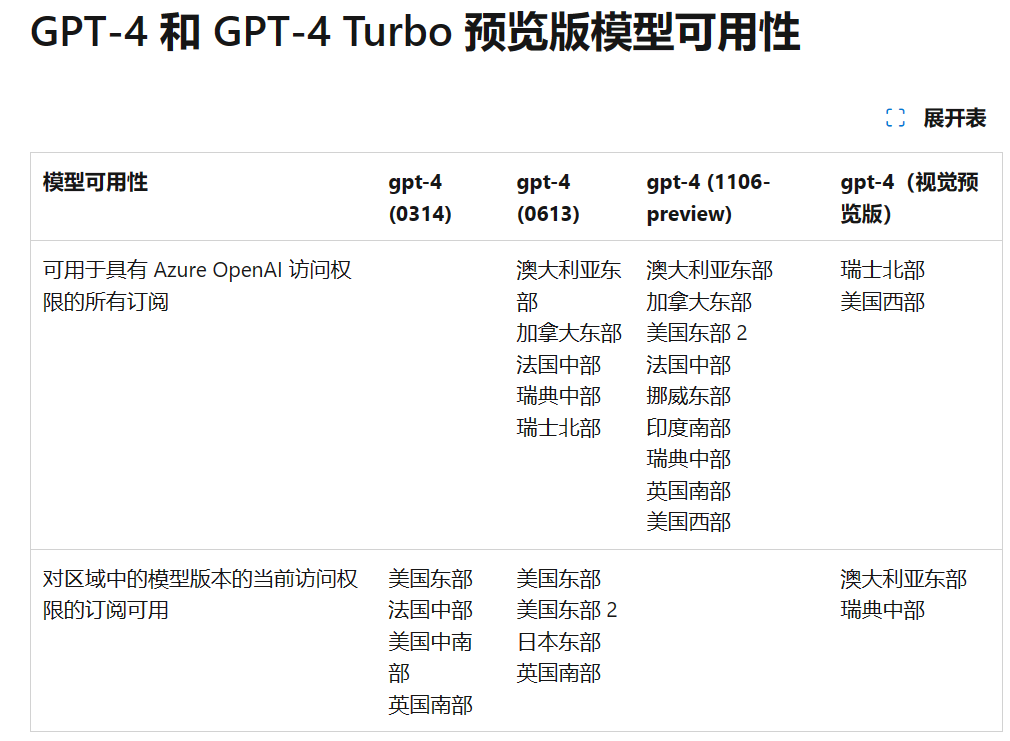
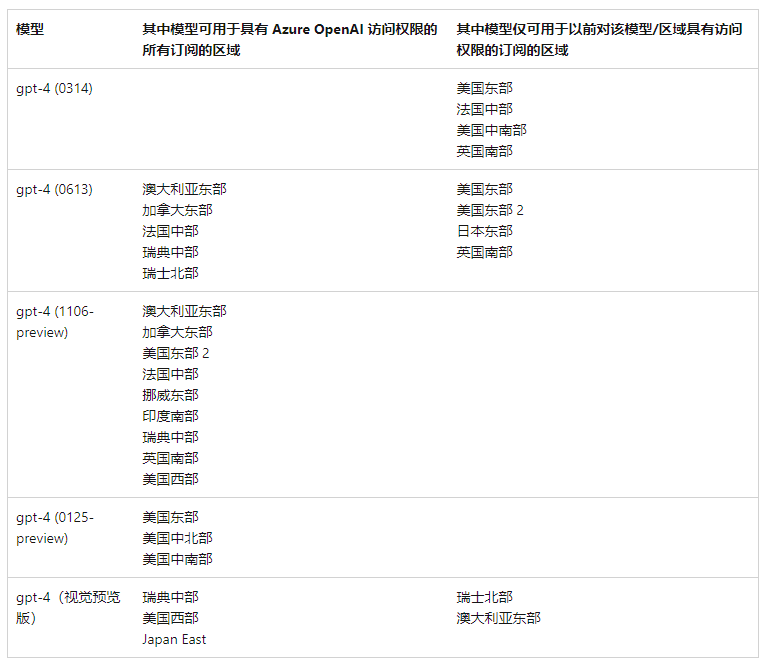
0125

diff --git a/readme.md b/readme.md
@@ -124,14 +124,21 @@ TPM按需要可调到最大\(按区域统计\)
 
 [Azure OpenAI 的基于角色的访问控制 \- Azure AI services | Microsoft Learn](https://learn.microsoft.com/zh-cn/azure/ai-services/openai/how-to/role-based-access-control)
 
-# 可用版本与区域(2024-01-08)
+# 可用版本与区域(2024-02-12)
 
 ![](img/test7.png)
 
 ![](img/test8.png)
 
-[Azure OpenAI 服务模型 \- Azure OpenAI | Microsoft Learn](https://learn.microsoft.com/zh-cn/azure/ai-services/openai/concepts/models)
+更详细请参考在线文档: [Azure OpenAI 服务模型 \- Azure OpenAI | Microsoft Learn](https://learn.microsoft.com/zh-cn/azure/ai-services/openai/concepts/models)
 
+[不同区域的网络延迟(不包括API)测试, 从当前浏览器所在网络发起](https://www.azurespeed.com/Azure/Latency)
+![](img/speedtest.png)
+
+# Assistant API (助手)
+[快速入门：开始使用 Azure OpenAI 助手（预览版）](https://learn.microsoft.com/zh-cn/azure/ai-services/openai/assistants-quickstart?tabs=command-line&pivots=programming-language-studio)
+
+![](./img/assistantapi.png)
 # Tokens – 计费单位
 
 每个AOAI资源都提供一定的吞吐量，具体取决于模型
@@ -377,8 +384,9 @@ Source: [https://a16z\.com/emerging\-architectures\-for\-llm\-applications/](htt
 # 内部知识库/QA客户类应用测试
 
 * 使用Azure Search作为embedding知识库
-  * [https://github\.com/Azure\-Samples/azure\-search\-openai\-demo/](https://github.com/Azure-Samples/azure-search-openai-demo/)
-  * 部署参考指南: [radezheng /ai\-search\-demo\-guide \(github\.com\)](https://github.com/radezheng/ai-search-demo-guide)
+  * Python版本:[https://github\.com/Azure\-Samples/azure\-search\-openai\-demo/](https://github.com/Azure-Samples/azure-search-openai-demo/)
+  * Pyhton版本部署参考指南: [radezheng /ai\-search\-demo\-guide \(github\.com\)](https://github.com/radezheng/ai-search-demo-guide)
+  * [其他语言版本](https://github.com/Azure-Samples/azureai-samples/tree/main?tab=readme-ov-file#azure-ai-search)
 
 # 企业部署参考架构
 * [企业级架构](https://learn.microsoft.com/zh-cn/azure/architecture/ai-ml/architecture/baseline-openai-e2e-chat)
